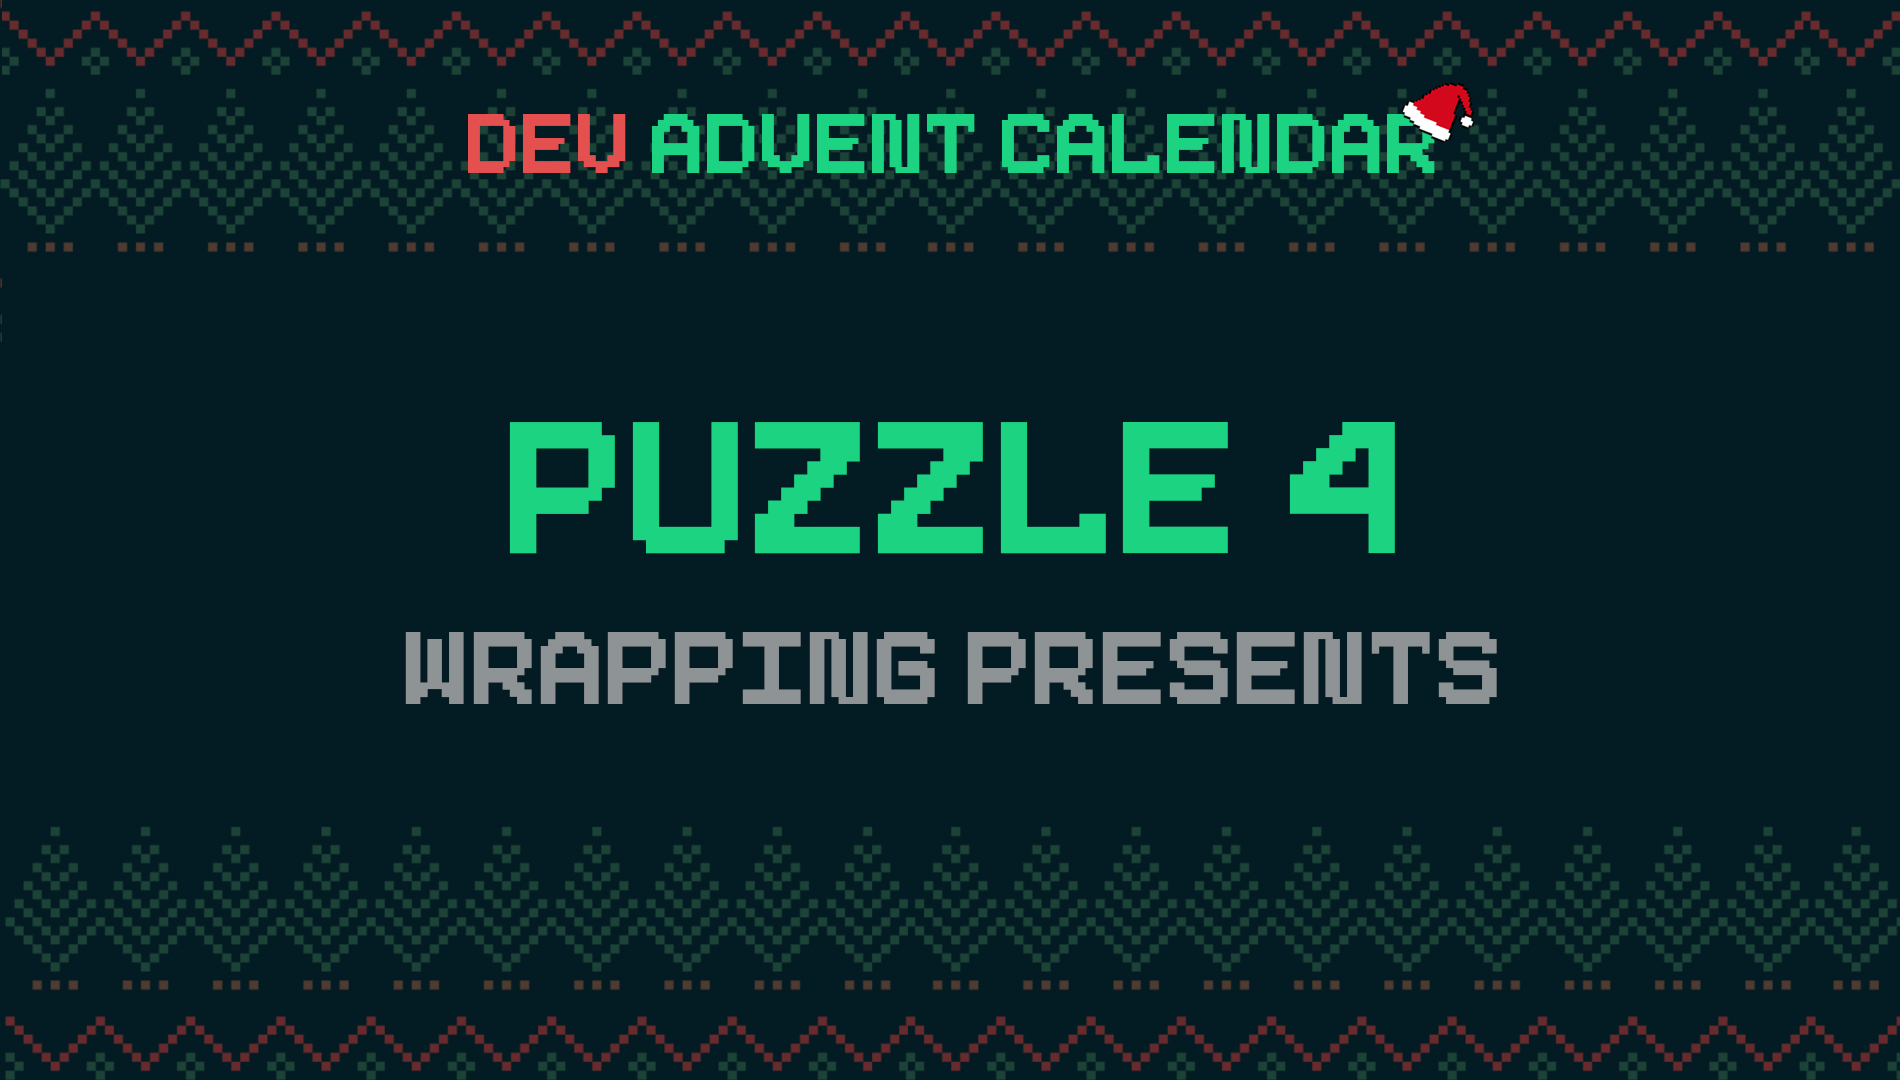
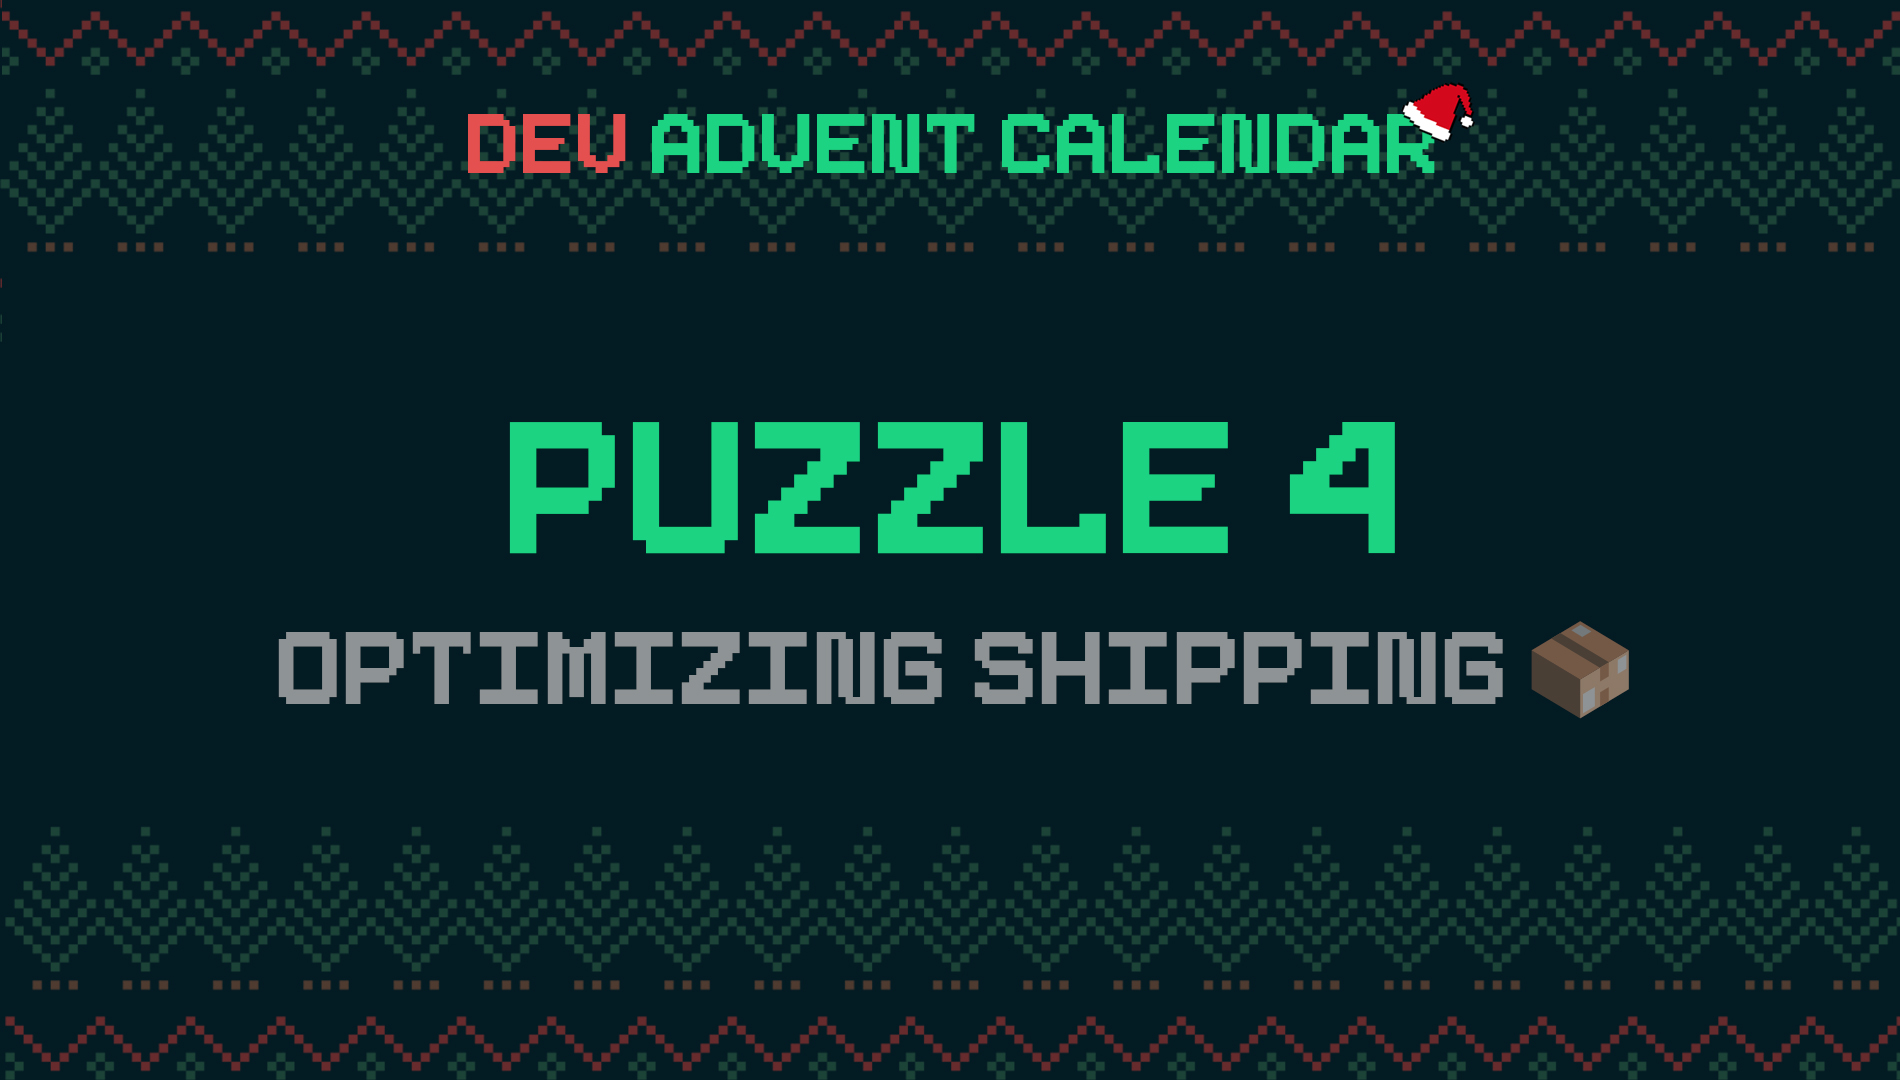
updated readme

Changed region(s): [[0.1242, 0.5806, 0.8695, 0.6722]]

diff --git a/README.md b/README.md
@@ -2,7 +2,7 @@
 
 ℹ For detailed information about the contest, check out [devadvent/readme](https://github.com/devadvent/readme/)
 
-# Dev Advent Calendar 🎅 Puzzle 4 - Finding the right box 📦
+# Dev Advent Calendar 🎅 Puzzle 4 - Optimizing shipping 📦
 
 You might not know this, but the Elf Post Service 📯 (ECS) is the largest parcel organization in the world. (For obvious reasons though, now that you think about, right?). They are ecologically responsible, so they continuously try to make everything more efficient, also when sending out packages.
 
@@ -43,7 +43,7 @@ Check out the [contributing guide](https://github.com/devadvent/readme/blob/main
 
 In short:
 
--   ✨ Create your repository by [acceping the assignment](https://classroom.github.com/a/XXXXXXXXX) using the participation link
+-   ✨ Create your repository by [acceping the assignment](https://classroom.github.com/a/8gTymnXm) using the participation link
 -   🧩 Solve the puzzle
 -   🐦 Add your Twitter handle to `twitter.js`
 -   🤖 Test your solution
@@ -52,7 +52,7 @@ In short:
 ## 🔗 Participation link
 
 In order to participate, you need to enter the following link and accept the assignment:
-[https://classroom.github.com/a/XXXXXXXXX](https://classroom.github.com/a/XXXXXXXXX)
+[https://classroom.github.com/a/8gTymnXm](https://classroom.github.com/a/8gTymnXm)
 
 ## 💻 Use this project
 
